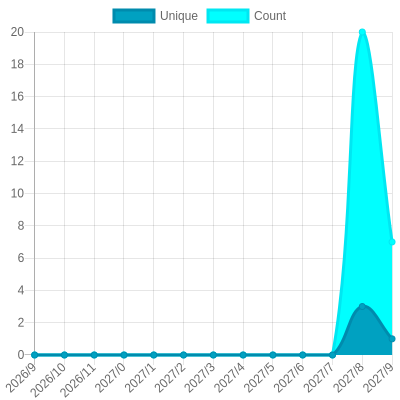
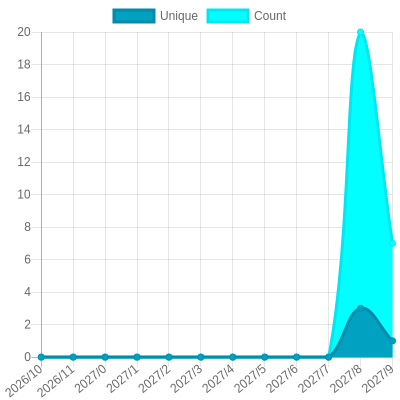
Update views

diff --git a/README.md b/README.md
@@ -26,7 +26,7 @@ The project created and maintained by [gayanvoice](https://github.com/gayanvoice
 			</a>
 		</td>
 		<td>
-			2026/10/29 5:11 AM UTC
+			2026/10/30 5:10 AM UTC
 		</td>
 		<td>
 			4
@@ -37,7 +37,7 @@ The project created and maintained by [gayanvoice](https://github.com/gayanvoice
 	</tr>
 </table>
 
-<small><i>Last updated on 2026/10/31 9:15 PM UTC</i></small>
+<small><i>Last updated on 2026/11/1 5:24 AM UTC</i></small>
 
 ## ✂Copy and 📋 Paste
 ### Total Views Badge

diff --git a/readme/1259419142/year.md b/readme/1259419142/year.md
@@ -150,21 +150,10 @@
 			<code>0</code>
 		</td>
 	</tr>
-	<tr>
-		<td>
-			<code>2025/10/1</code>
-		</td>
-		<td>
-			<code>0</code>
-		</td>
-		<td>
-			<code>0</code>
-		</td>
-	</tr>
 </table>
 
 </details>
-<small><i>Last updated on 2026/10/31 9:15 PM UTC</i></small>
+<small><i>Last updated on 2026/11/1 5:24 AM UTC</i></small>
 
 ## ✂Copy and 📋 Paste
 ### SVG Badge
